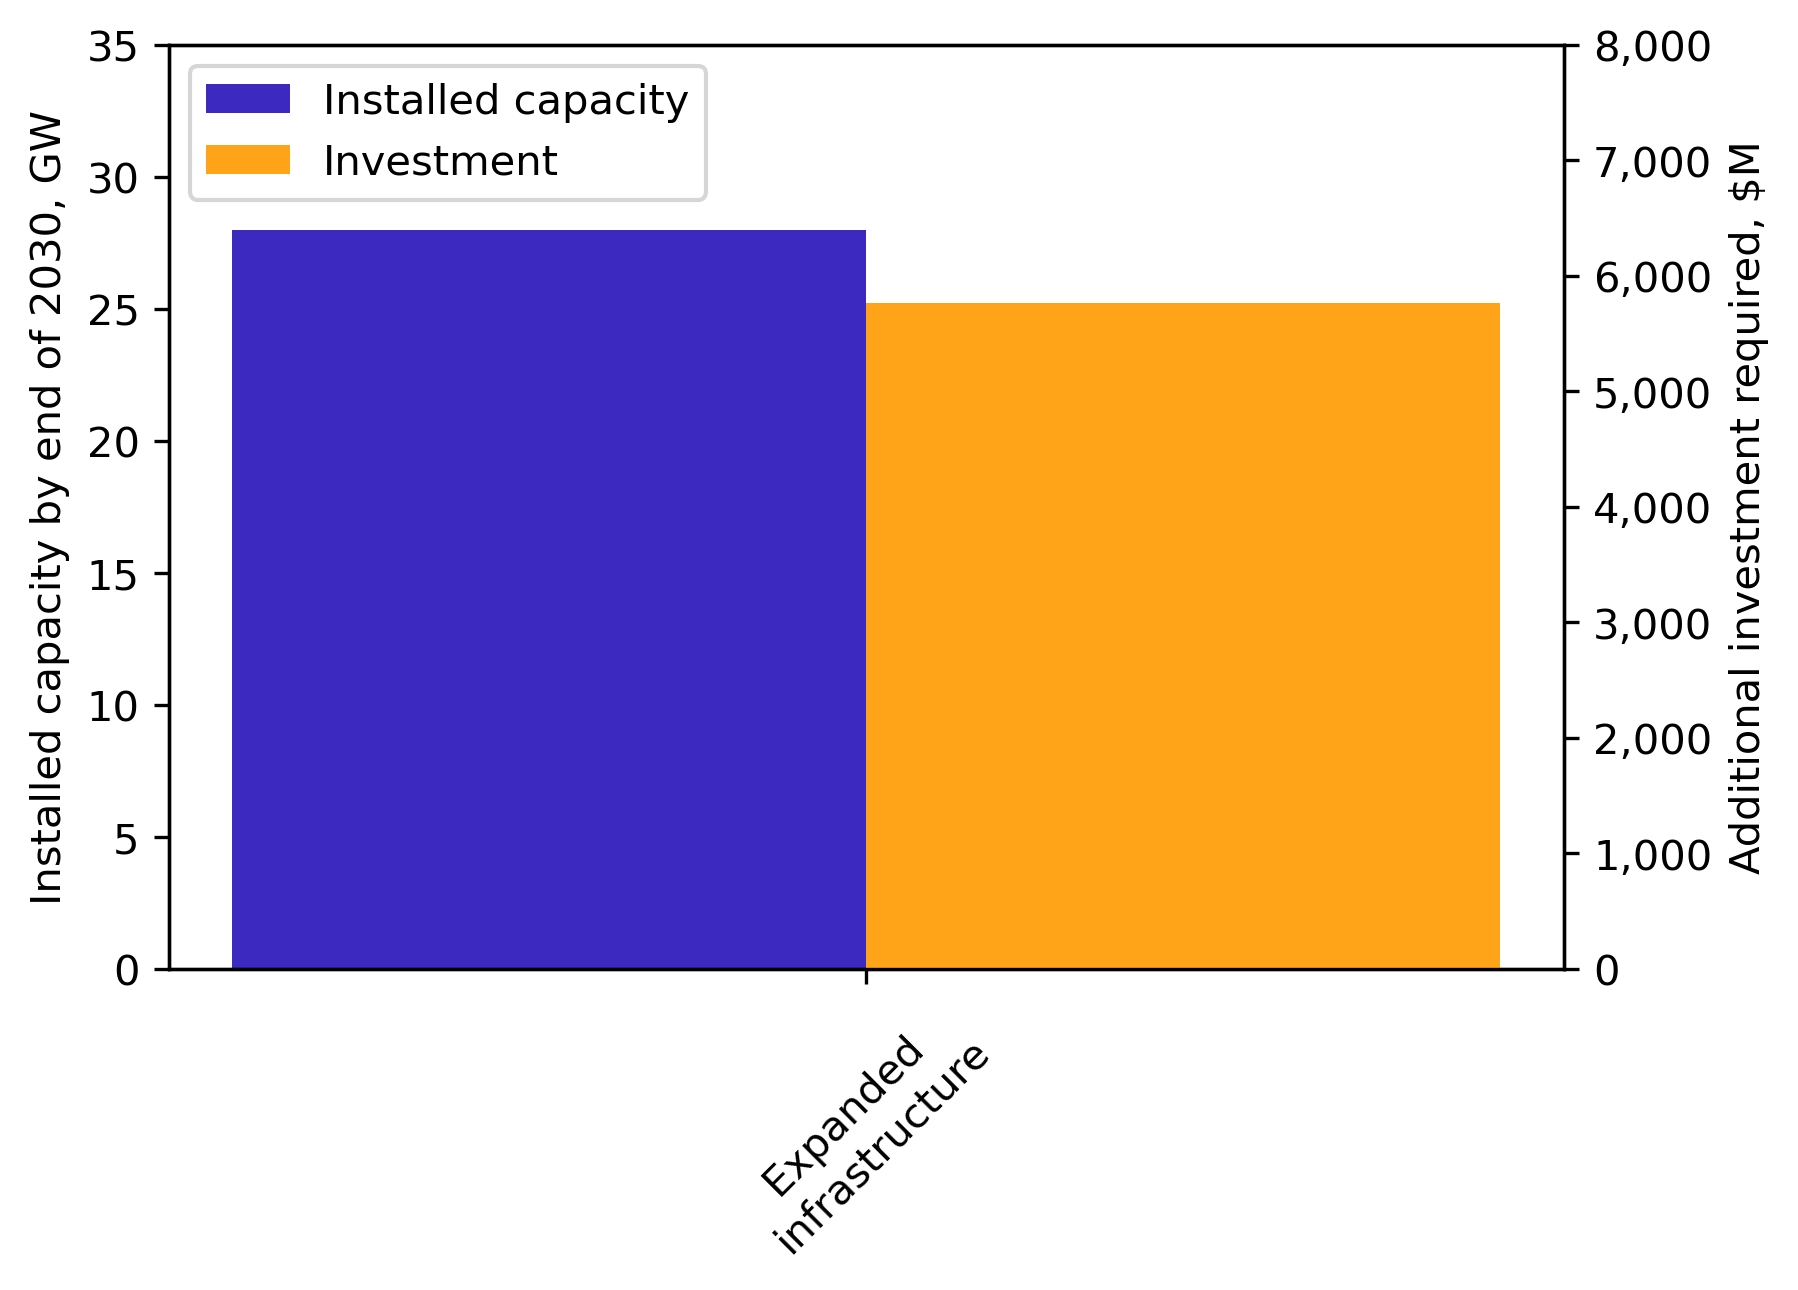
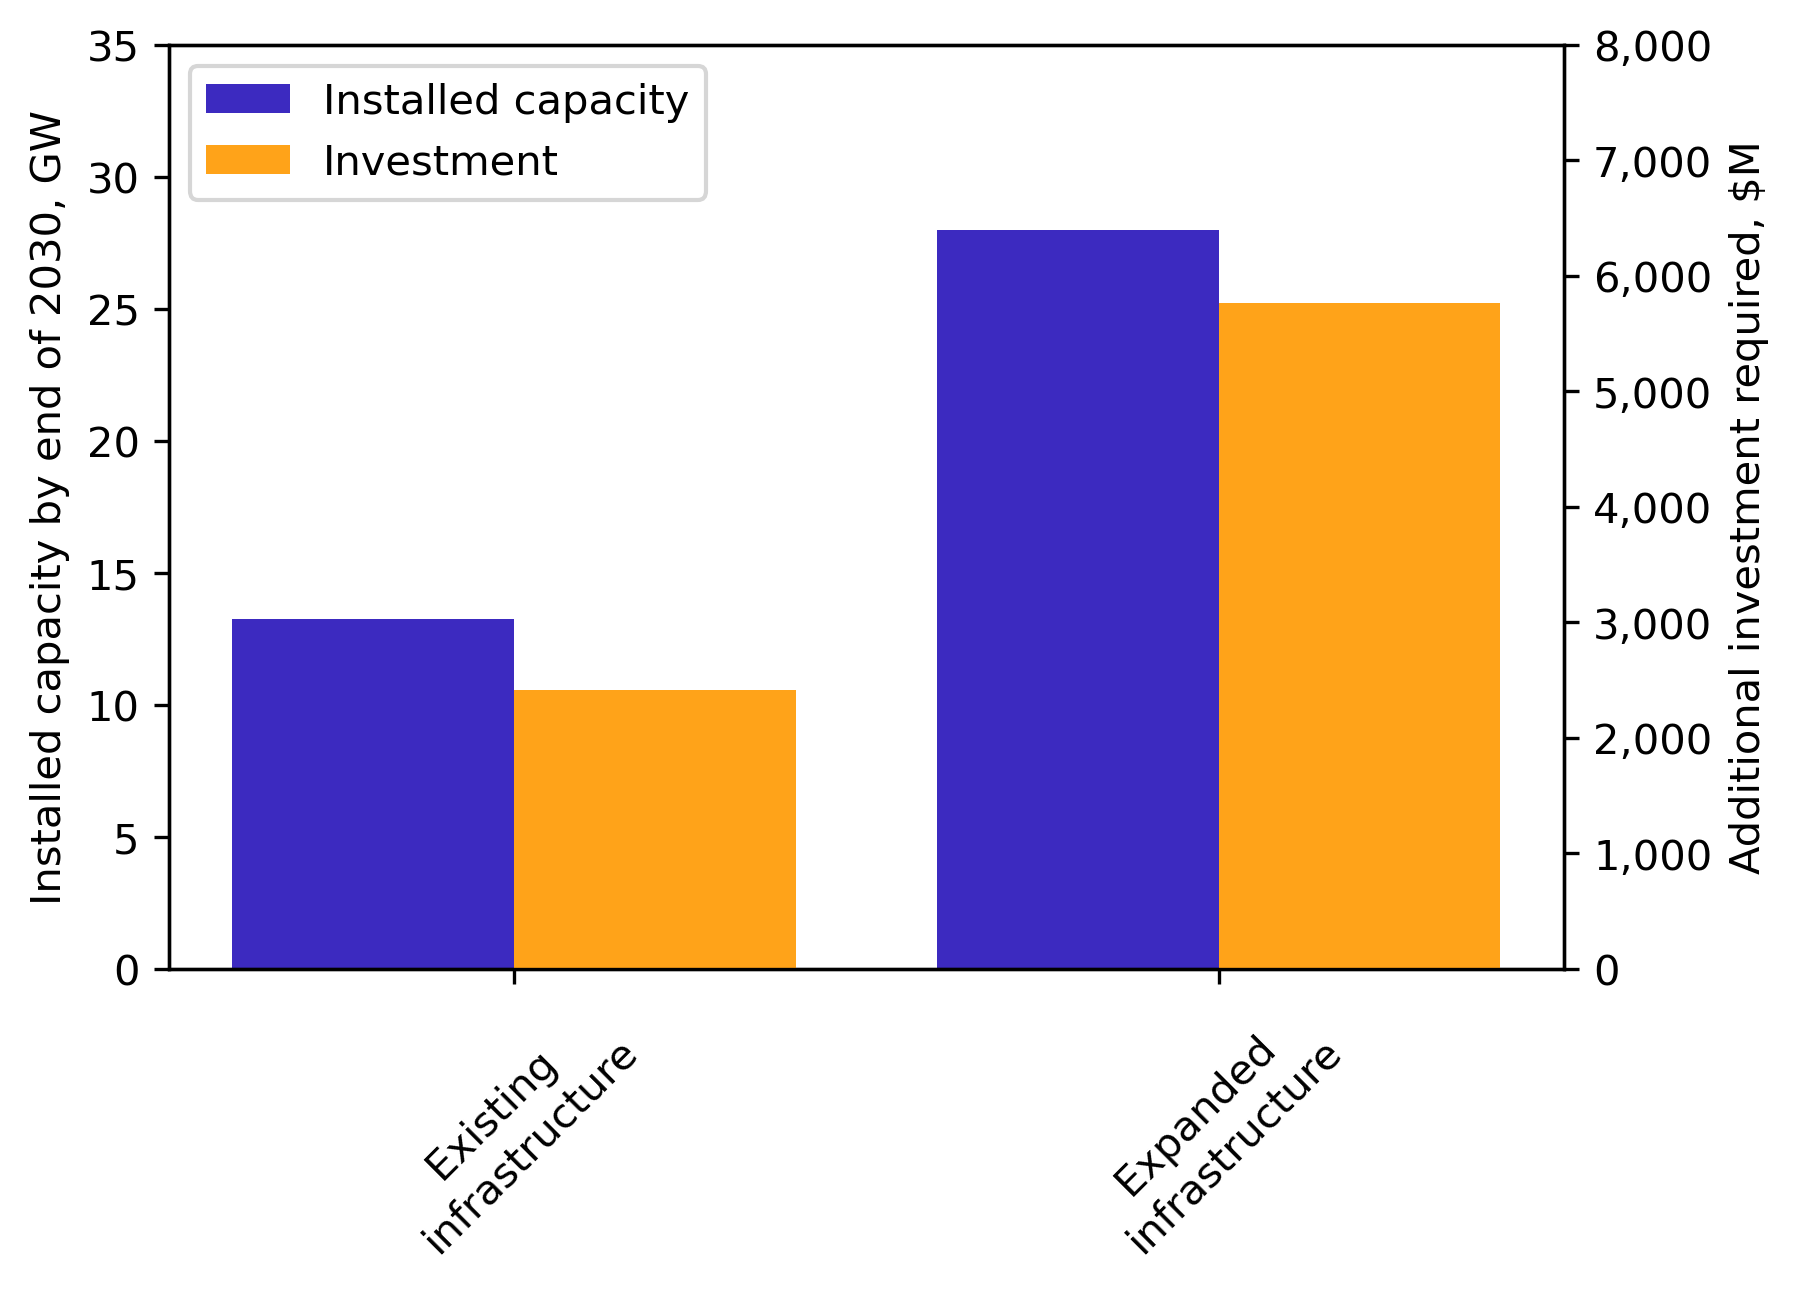
Final HLV scenarios

diff --git a/helpers.py b/helpers.py
@@ -116,6 +116,10 @@ future_allocations = {
     ['wtiv', 'example_heavy_lift_vessel', [dt.datetime(2027, 1, 1)]],
     ['wtiv', 'example_heavy_lift_vessel', [dt.datetime(2027, 1, 1)]],
     ['wtiv', 'example_heavy_lift_vessel', [dt.datetime(2027, 1, 1)]],
+    ['feeder', 'example_feeder', [dt.datetime(2026, 1, 1)]],
+    ['feeder', 'example_feeder', [dt.datetime(2026, 1, 1)]],
+    ['feeder', 'example_feeder', [dt.datetime(2028, 1, 1)]],
+    ['feeder', 'example_feeder', [dt.datetime(2028, 1, 1)]],
     # ['wtiv', 'example_heavy_lift_vessel', [dt.datetime(2029, 1, 1)]],
     # ['wtiv', 'example_wtiv', [dt.datetime(2028, 1, 1)]],
     # ['wtiv', 'example_wtiv', [dt.datetime(2029, 1, 1)]],
@@ -135,7 +139,7 @@ investments = {  # Include one 'port' in 2022 to cover additioanl grants for por
 # 'add_3hlv_4wtiv_eur_ports': [port+wtiv, ]
 'base': [1270, 0, 0, 887, 0, 260, 0, 0, 0, 0, 0],
 'add_3hlv_4wtiv_eur_ports': [1270, 0, 0, 887, 500, 1910, 1200, 0, 0, 0, 0]
-}  # Fixed bottom ports only 
+}  # Fixed bottom ports only
 
 plot_names_map = {
 'baseline': 'Existing \ninfrastructure',

diff --git a/CORAL/pipelines.py b/CORAL/pipelines.py
@@ -132,7 +132,7 @@ class Pipeline:
             # Vessels
 
             config["wtiv"] = "_shared_pool_:example_wtiv"
-            config.update({'MonopileInstallation': {'wtiv': "_shared_pool_:example_heavy_lift_vessel"}})
+            config.update({'MonopileInstallation': {'wtiv': "_shared_pool_:example_heavy_lift_vessel", "feeder": "_shared_pool_:example_feeder"}})
 
             port = config["port"].replace("_shared_pool_:", "")
             if port in ["sbmt", "new_bedford"] or self.enforce_feeders:
